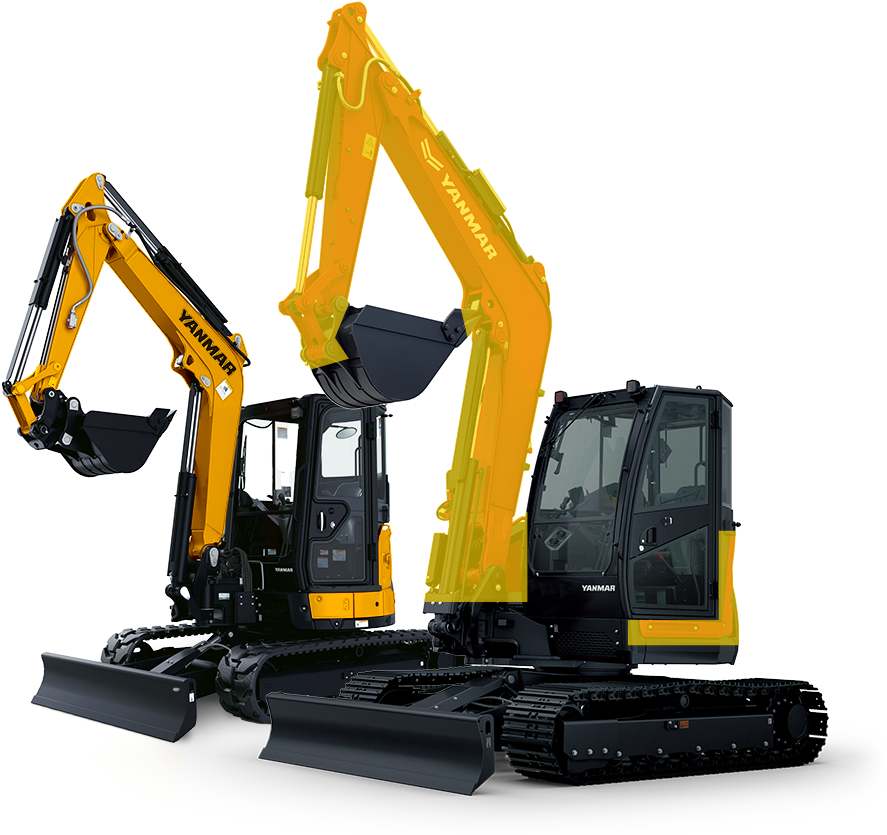
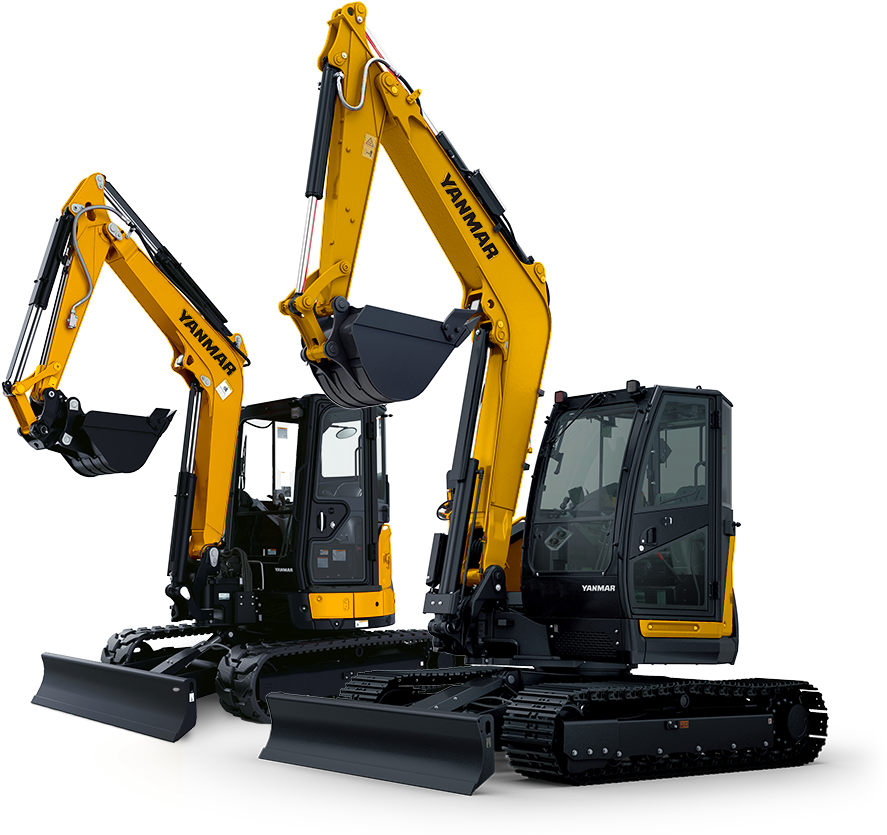
complete yanmarRED

Changed region(s): [[0.3044, 0.0, 0.6392, 0.7473], [0.7001, 0.6228, 0.8523, 0.7784]]

diff --git a/html/yanmarRED.html b/html/yanmarRED.html
@@ -370,7 +370,7 @@
                         .gaugeVisualYELLOW { clip-path: inset(100% 0 0 0); }
                             @keyframes down-leave {
                                 0% { clip-path: inset(100% 0 0 0); }
-                                100% { clip-path: inset(67.5% 0 0 0); } /* 75% is starting point due to lack of colour near the base of illustration */
+                                100% { clip-path: inset(40.5% 0 0 0); } /* 75% is starting point due to lack of colour near the base of illustration */
                             }
                        
                     </style>
